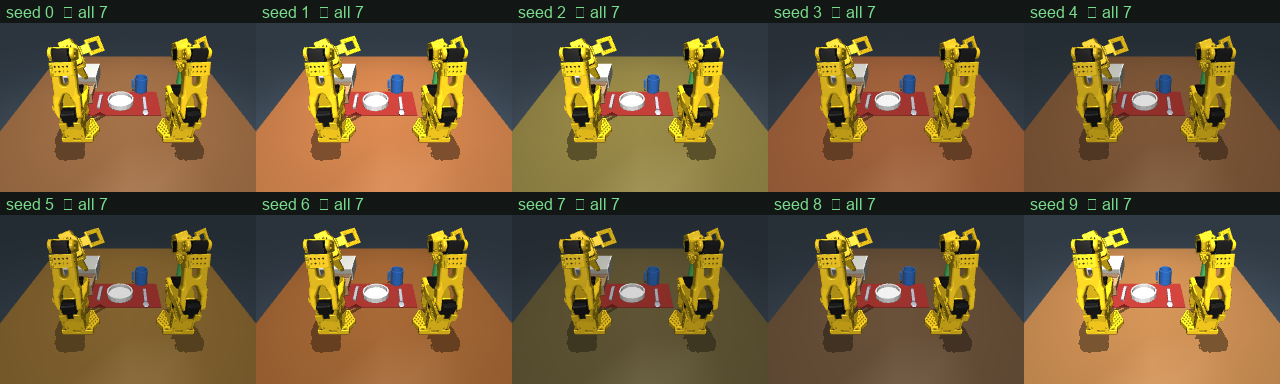
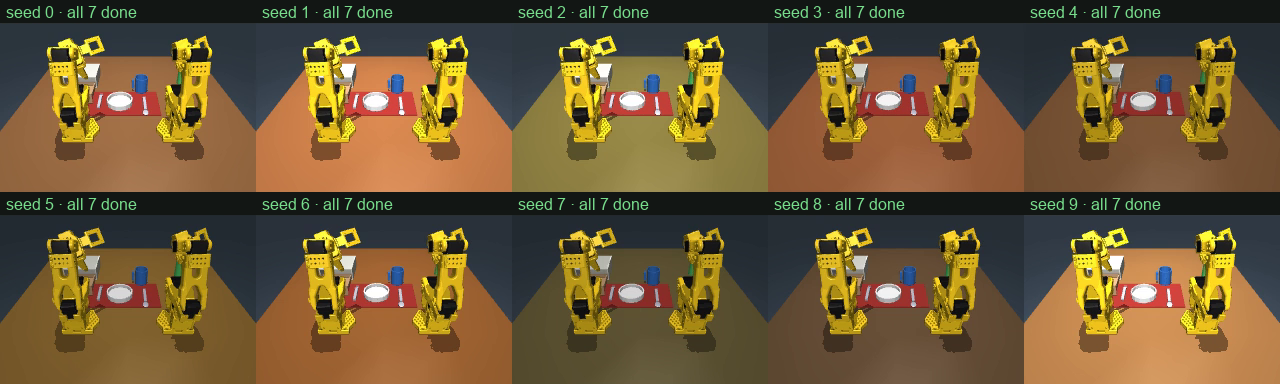
fix(media): grid captions say whether each seed set the whole table

diff --git a/tools/render_media.py b/tools/render_media.py
@@ -81,6 +81,23 @@ def render_cover_alt(env, executor):
     print("wrote cover_alt.png (the pour)")
 
 
+def caption(seed, done, success):
+    """(text, colour) for a grid tile. Plain text: tick and cross glyphs are missing from common fonts."""
+    if not done:
+        return f"seed {seed}", (230, 233, 231)
+    if success:
+        return f"seed {seed} · all 7 done", (120, 220, 140)
+    return f"seed {seed} · not all done", (240, 150, 120)
+
+
+def draw_caption(tile, seed, done, success, label):
+    """Draw the caption bar onto a PIL tile in place."""
+    text, colour = caption(seed, done, success)
+    draw = ImageDraw.Draw(tile)
+    draw.rectangle([0, 0, TILE[1], 22], fill=(18, 22, 20))
+    draw.text((6, 3), text, font=label, fill=colour)
+
+
 def render_grid(env, executor, seeds):
     clips, results = [], []
     for seed in seeds:
@@ -107,11 +124,7 @@ def render_grid(env, executor, seeds):
         for i, (seed, clip) in enumerate(zip(seeds, clips)):
             frame = clip[min(t, len(clip) - 1)]
             tile = Image.fromarray(frame)
-            draw = ImageDraw.Draw(tile)
-            done = t >= len(clip) - 1
-            text = f"seed {seed}" + ("  ✓ all 7" if done and results[i] else ("  ✗" if done else ""))
-            draw.rectangle([0, 0, TILE[1], 22], fill=(18, 22, 20))
-            draw.text((6, 3), text, font=label, fill=(120, 220, 140) if done and results[i] else (230, 233, 231))
+            draw_caption(tile, seed, t >= len(clip) - 1, results[i], label)
             sheet.paste(tile, ((i % cols) * TILE[1], (i // cols) * TILE[0]))
         last = sheet
         writer.append_data(np.asarray(sheet))

diff --git a/tests/test_render_media.py b/tests/test_render_media.py
@@ -23,3 +23,15 @@ def test_the_simulation_itself_still_renders_without_multisampling():
     finally:
         env.close()
         plain.close()
+
+
+def test_grid_captions_are_plain_text():
+    """The tick and cross glyphs were not in the fonts used, so every finished tile said "seed 0 □ all 7"."""
+    from tools.render_media import caption
+
+    assert caption(3, done=False, success=False) == ("seed 3", caption(3, False, False)[1])
+    text, colour = caption(3, done=True, success=True)
+    assert text == "seed 3 · all 7 done" and colour[1] > colour[0]
+    assert caption(3, done=True, success=False)[0] == "seed 3 · not all done"
+    for done, success in ((True, True), (True, False), (False, False)):
+        assert all(ord(ch) < 0x2190 for ch in caption(3, done, success)[0])
